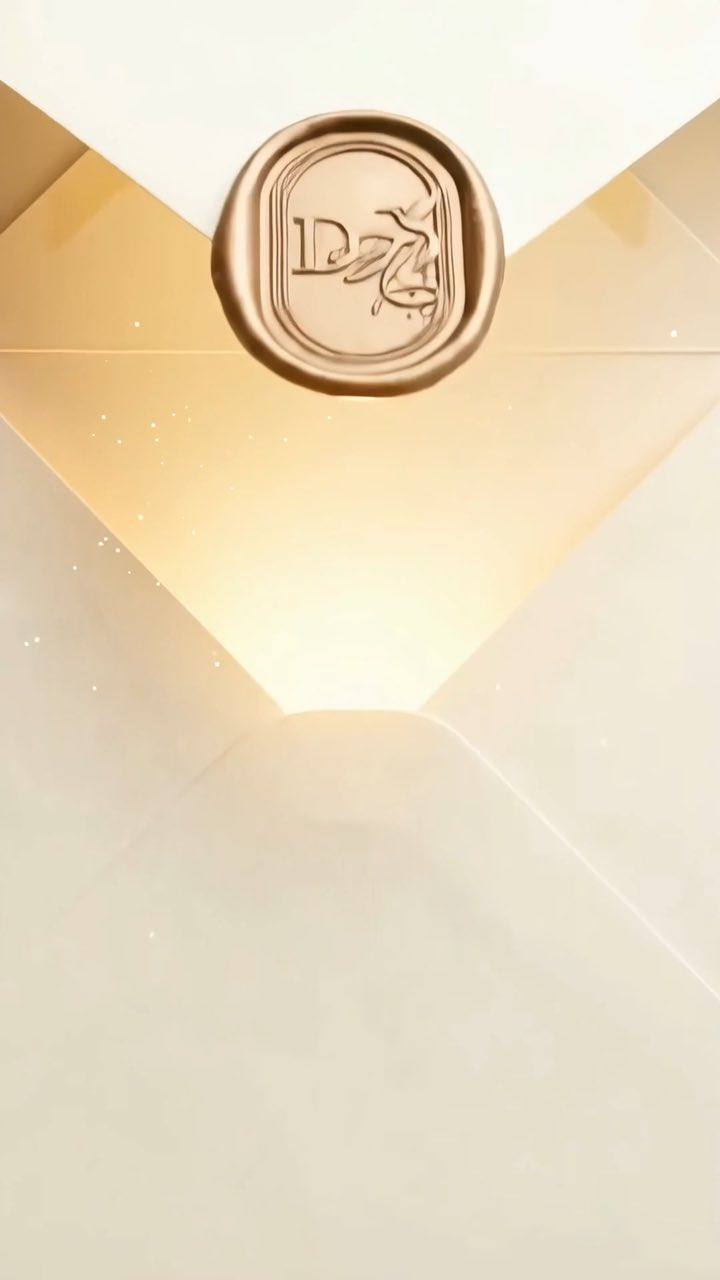
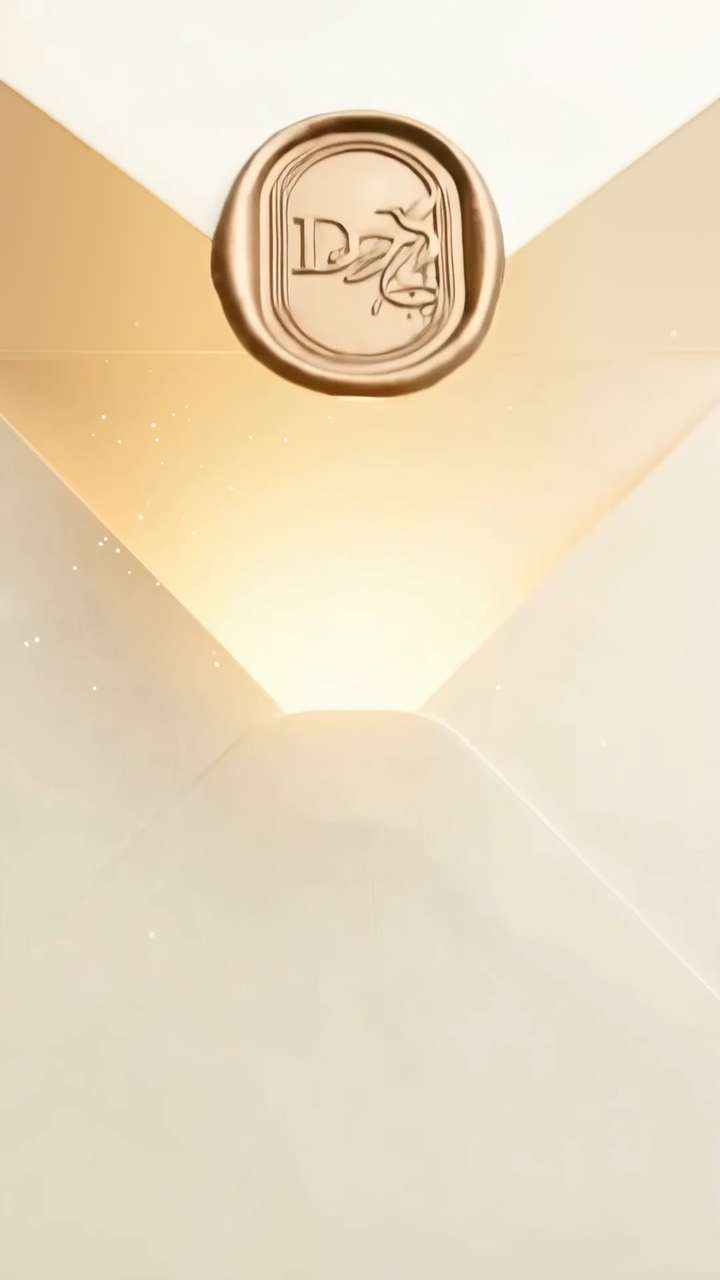
Sobre y hero a pantalla completa; el sobre vertical ya no se ve doble al abrir

Changed region(s): [[0.0, 0.0625, 0.1833, 0.2188], [0.7944, 0.0625, 1.0, 0.2188]]

diff --git a/index.html b/index.html
@@ -320,6 +320,11 @@ footer .lema{color:rgba(255,248,238,.8);margin-top:10px}
   background:url(sobre/f00.jpg) center / cover no-repeat}
 /* El sobre queda pausado debajo de la camilla, que lo tapa por completo. No se quita ni se descarga: hacerlo provoca un parpadeo en teléfonos. */
 .portada.lista .v-sobre{visibility:hidden}
+/* El sobre y la luz cubren toda la pantalla visible, incluso cuando el navegador esconde sus barras (pantalla "grande") */
+@supports (height:100lvh){
+  .escena, .v-sobre{min-height:100lvh}
+  .saludo{height:100lvh;padding-bottom:calc(5svh + 100lvh - 100svh)}
+}
 
 /* La camilla se ve completa, a todo el ancho, sin recortes ni velos encima.
    .ventana ocupa la franja del video donde están las personas (del 26.5% al 78.5% de su alto).
@@ -524,13 +529,13 @@ html.intro .seguir-hilo::after{animation-play-state:paused}
      Abajo se funde con el dorado, donde siguen el logo y las cifras. (La letra y el sitio del título quedan para después.) */
   /* --alto: el alto de la toma. Nunca más que el alto propio del video (16:9) a todo el ancho, así el video se ve completo,
      de lado a lado, sin ampliarse. Solo en ventanas más anchas que 16:9 se recorta un poco de fondo arriba y abajo. */
-  .portada{--alto:min(100svh, 56.25vw);padding-top:calc(env(safe-area-inset-top,0px) + var(--navh) + 24px);background:#B38953}
-  .escena{background:linear-gradient(180deg, #B48A56 0, #B48A56 var(--alto), #BE9860 calc(var(--alto) + 30%), #C9A56A 100%)}
-  .portada-contenido{position:static;justify-content:center;gap:30px;min-height:calc(var(--alto) - var(--navh) - 24px)}
-  .ventana{position:absolute;inset:auto;left:0;top:0;width:100%;height:var(--alto);z-index:0;margin:0;aspect-ratio:auto}
-  .v-camilla{left:0;top:0;width:100%;height:100%;object-position:50% 50%;
-    -webkit-mask-image:linear-gradient(180deg, #000 0, #000 80%, rgba(0,0,0,.5) 92%, transparent 100%);
-    mask-image:linear-gradient(180deg, #000 0, #000 80%, rgba(0,0,0,.5) 92%, transparent 100%)}
+  /* El hero llena la primera pantalla completa, igual que el sobre. La toma se ajusta para cubrirla entera y se ancla
+     hacia la izquierda, donde están Drabarni y la clienta, para que nunca queden fuera. Lo que sigue empieza debajo. */
+  .portada{padding-top:calc(env(safe-area-inset-top,0px) + var(--navh) + 24px);background:#B38953}
+  .escena{background:linear-gradient(180deg, #B48A56 0, #B48A56 100svh, #BE9860 calc(100svh + 30%), #C9A56A 100%)}
+  .portada-contenido{position:static;justify-content:center;gap:30px;min-height:calc(100svh - var(--navh) - 24px)}
+  .ventana{position:absolute;inset:auto;left:0;top:0;width:100%;height:100svh;z-index:0;margin:0;aspect-ratio:auto}
+  .v-camilla{left:0;top:0;width:100%;height:100%;object-position:22% 50%;-webkit-mask-image:none;mask-image:none}
   .borde{display:none}
   .p-arriba{height:auto}
   /* La frase va entera, junta, a la derecha: grande, ocupando la sábana de la camilla */
@@ -542,8 +547,18 @@ html.intro .seguir-hilo::after{animation-play-state:paused}
   .p-arriba,.p-abajo{max-width:34rem}
   /* El sobre horizontal llena la pantalla */
   .v-sobre{height:100svh;background-image:url(sobre-h/f00.jpg)}
+  .p-abajo{position:absolute;left:0;right:0;top:calc(100svh - 96px);max-width:none;margin:0}
+  .p-abajo .seguir{margin:0 auto}
   .saludo .oro::after{background-image:linear-gradient(180deg, rgba(58,34,10,calc(var(--velo) + .16)) 0%, rgba(58,34,10,var(--velo)) 30%, rgba(58,34,10,var(--velo)) 100%), url(camilla-h-poster-2.jpg)}
 }
+
+/* En ventanas más cuadradas la toma se recorta por la derecha: la frase se recoge un poco para seguir sobre la sábana */
+@media (min-width:960px) and (max-aspect-ratio:3/2){
+  .ventana .frase{left:47%;width:52%;font-size:min(4.8vw, 9.8svh)}
+}
+/* Lo que sigue a la portada (logo, estrellas y cifras) no se asoma durante la entrada: aparece después, con suavidad */
+.portada-pie{transition:opacity 1s ease .5s}
+html.intro .portada-pie{opacity:0;transition:none}
 
 /* El texto de la portada aparece línea por línea después del enfoque */
 .linea{transition:opacity .7s var(--ease), transform .7s var(--ease);transition-delay:calc(var(--i,0) * 110ms)}
